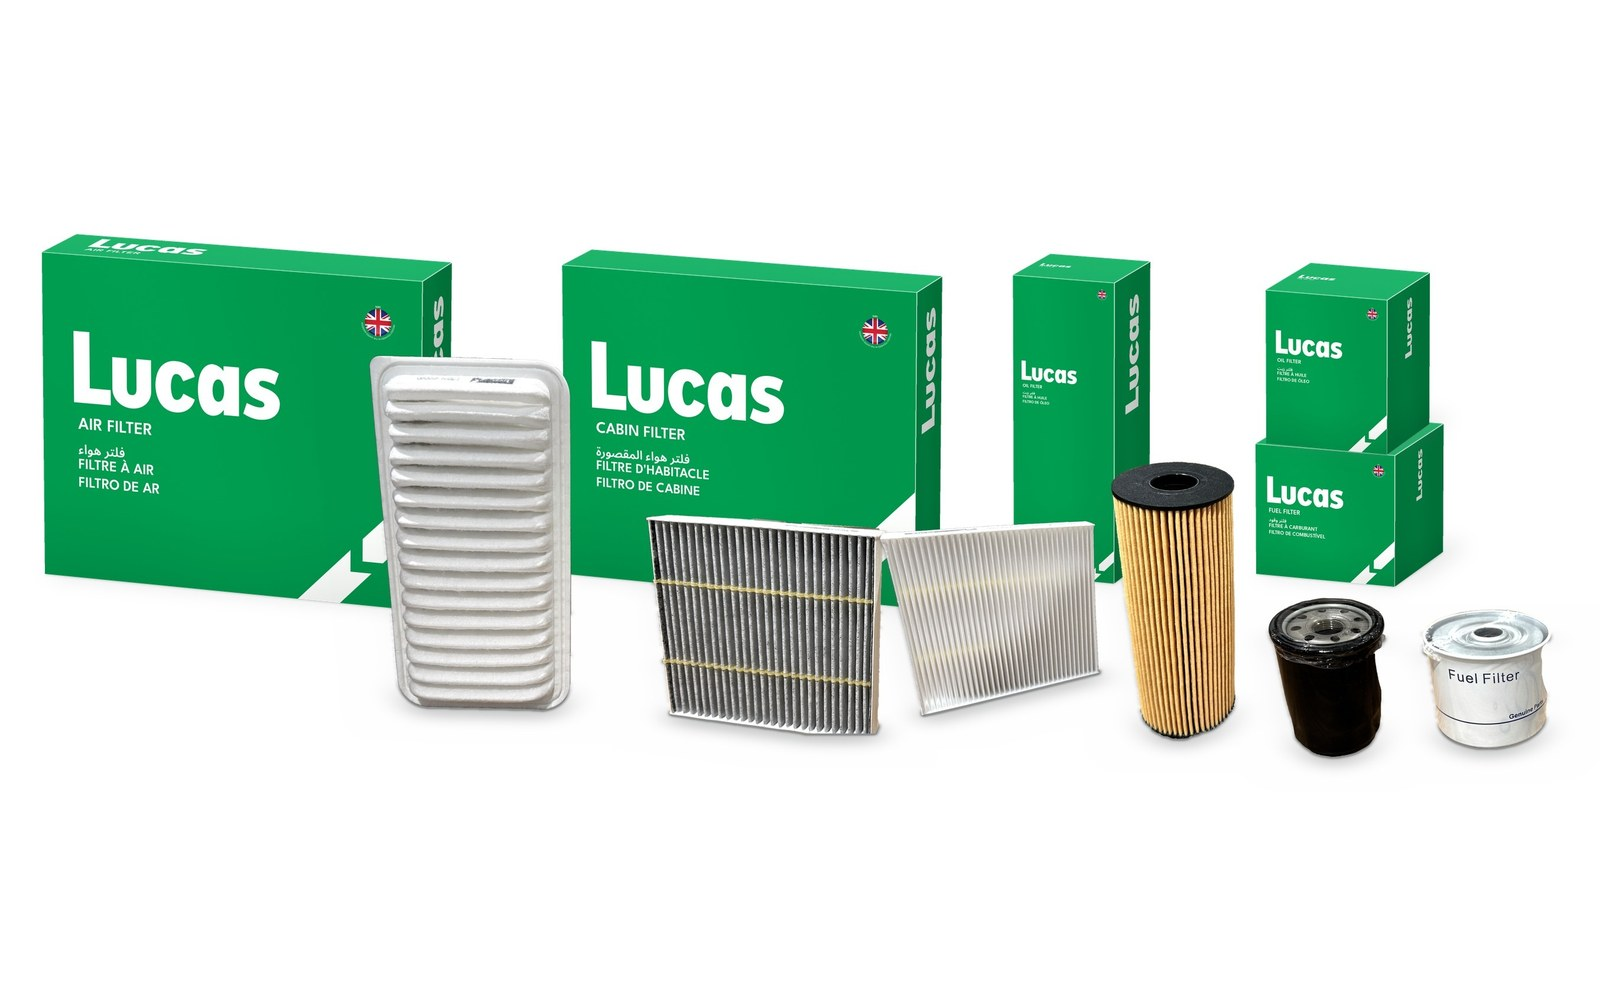
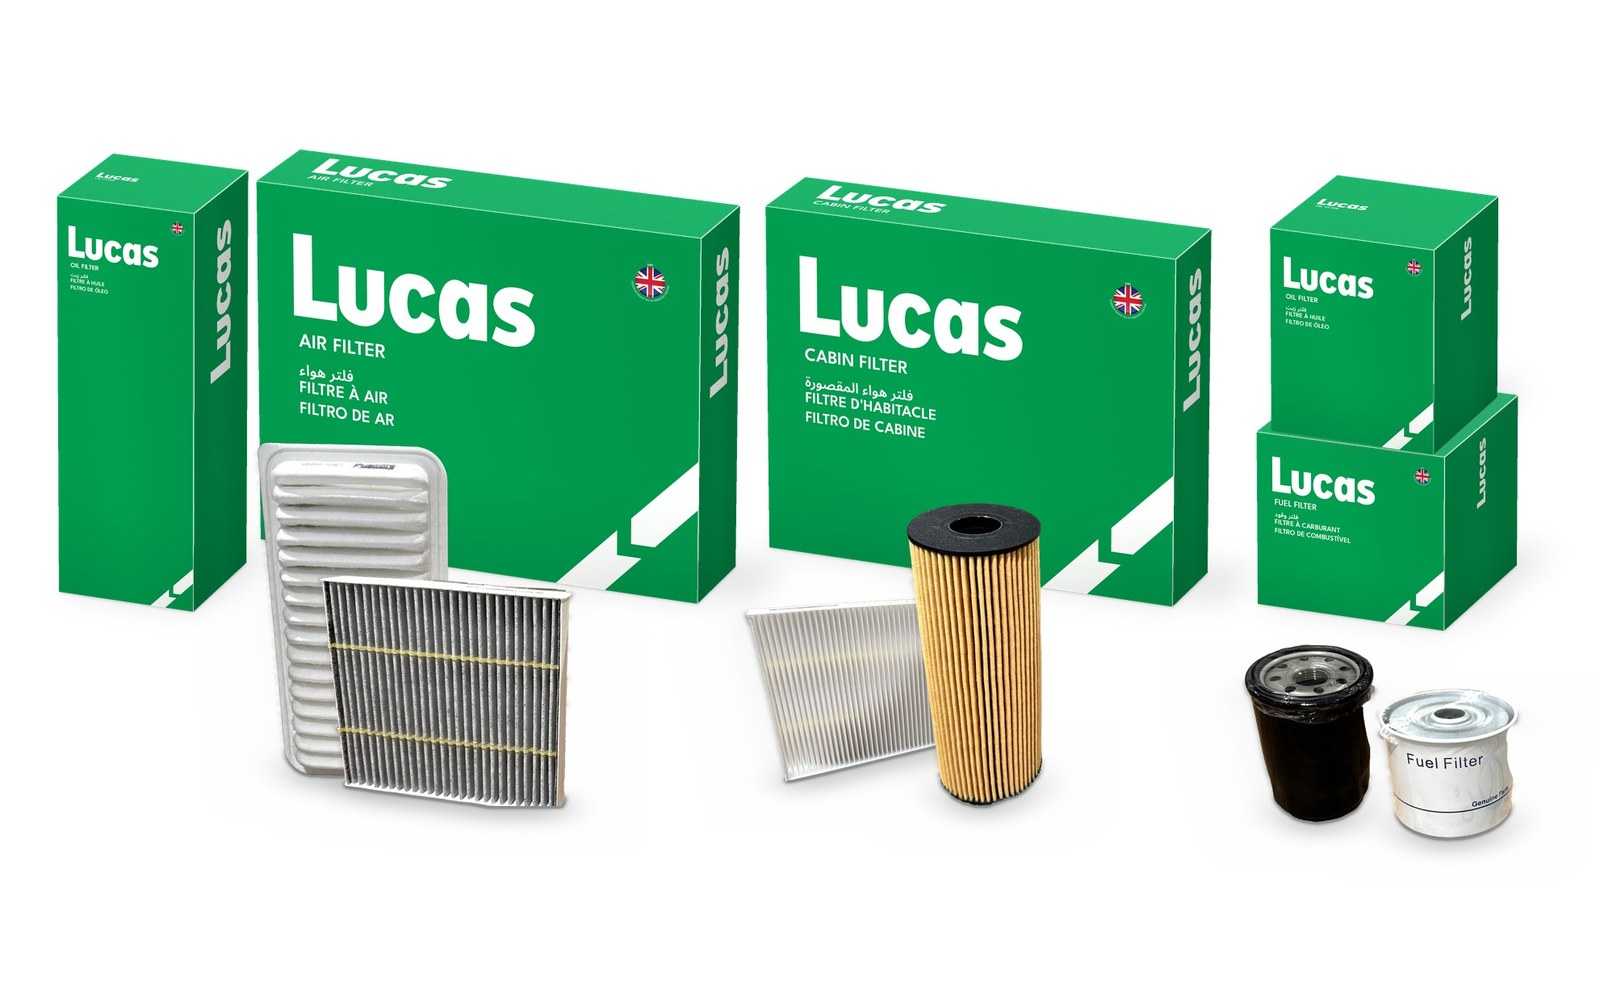
Filters hero: grouped layout, Lucas branding kept clear
Filters grouped in front of their boxes without covering any logo, name, flag or chevron;
logo moved up on the boxes, including the tall oil filter box.

Claude-Session: https://claude.ai/code/session_01K6GgsC2ob2egdLcd9WnDNS

diff --git a/index.html b/index.html
@@ -161,7 +161,7 @@ footer .rule{height:6px; background:var(--lucas-green);}
           <img src="/assets/home/horns.jpg" alt="Lucas disc and trumpet horns with their boxes" width="1000" height="525" class="on">
           <img src="/assets/home/water-pumps.jpg" alt="Lucas mechanical and electric water pumps" width="1000" height="327" aria-hidden="true">
           <img src="/assets/home/bulbs.jpg" alt="Lucas halogen and LightBooster bulbs with their packs" width="1000" height="500" aria-hidden="true">
-          <img src="/assets/home/filters-hero.jpg" alt="Lucas air, cabin, oil and fuel filters with Lucas filter boxes" width="1600" height="1000" aria-hidden="true">
+          <img src="/assets/home/filters-hero2.jpg" alt="Lucas air, cabin, oil and fuel filters with Lucas filter boxes" width="1600" height="1000" aria-hidden="true">
           <img src="/assets/home/wiper-blades.jpg" alt="Lucas UltraBlade, AirFlex and EcoBlade wiper blades with their boxes" width="1000" height="454" aria-hidden="true">
           <img src="/assets/home/alternators.jpg" alt="Lucas alternator with its Lucas box" width="1199" height="686" aria-hidden="true">
           <img src="/assets/home/starters.jpg" alt="Lucas starter motor with its Lucas box" width="1500" height="1000" aria-hidden="true">
@@ -186,7 +186,7 @@ footer .rule{height:6px; background:var(--lucas-green);}
         <li><a class="tile" href="/gas-springs/"><div class="pic"><img src="/assets/home/gas-springs.jpg" alt="" width="1800" height="536" loading="lazy"></div><div class="txt"><h3>Gas Springs</h3><span>3,615 part numbers</span><span>146 vehicle makes</span></div></a></li>
         <li><a class="tile" href="/water-pumps/"><div class="pic"><img src="/assets/home/water-pumps.jpg" alt="" width="1000" height="327" loading="lazy"></div><div class="txt"><h3>Water Pumps</h3><span>1,256 part numbers</span><span>72 vehicle makes</span></div></a></li>
         <li><a class="tile" href="/bulbs/"><div class="pic"><img src="/assets/home/bulbs.jpg" alt="" width="1000" height="500" loading="lazy"></div><div class="txt"><h3>Bulbs</h3><span>388 part numbers</span><span>Halogen, LED and HID</span></div></a></li>
-        <li><a class="tile" href="/filters/"><div class="pic"><img src="/assets/home/filters-hero.jpg" alt="" width="1600" height="1000" loading="lazy"></div><div class="txt"><h3>Filters</h3><span>779 part numbers</span><span>126 vehicle makes</span></div></a></li>
+        <li><a class="tile" href="/filters/"><div class="pic"><img src="/assets/home/filters-hero2.jpg" alt="" width="1600" height="1000" loading="lazy"></div><div class="txt"><h3>Filters</h3><span>779 part numbers</span><span>126 vehicle makes</span></div></a></li>
         <li><a class="tile" href="/wiper-blades/"><div class="pic"><img src="/assets/home/wiper-blades.jpg" alt="" width="1000" height="454" loading="lazy"></div><div class="txt"><h3>Wiper Blades</h3><span>141 part numbers</span><span>Conventional, flat and hybrid</span></div></a></li>
         <li><a class="tile" href="/horns/"><div class="pic"><img src="/assets/home/horns.jpg" alt="" width="1000" height="525" loading="lazy"></div><div class="txt"><h3>Horns</h3><span>21 part numbers</span><span>12V and 24V</span></div></a></li>
         <li><a class="tile" href="/alternators/"><div class="pic"><img src="/assets/home/alternators.jpg" alt="" width="1199" height="686" loading="lazy"></div><div class="txt"><h3>Alternators</h3><span>200 part numbers</span><span>44 vehicle makes</span></div></a></li>

diff --git a/filters/index.html b/filters/index.html
@@ -286,7 +286,7 @@ html{scroll-padding-top:78px;}
         <li><b id="fApps">0</b><span>Vehicles listed</span></li>
       </ul>
     </div>
-    <div class="hshot"><img src="/assets/home/filters-hero.jpg" alt="Lucas air, cabin, oil and fuel filters with Lucas filter boxes" width="1600" height="1000"></div>
+    <div class="hshot"><img src="/assets/home/filters-hero2.jpg" alt="Lucas air, cabin, oil and fuel filters with Lucas filter boxes" width="1600" height="1000"></div>
   </div>
   <div class="in" style="padding-bottom:40px"><div class="rangecards" id="rangeCards" style="margin-top:0"></div></div>
 </section>
